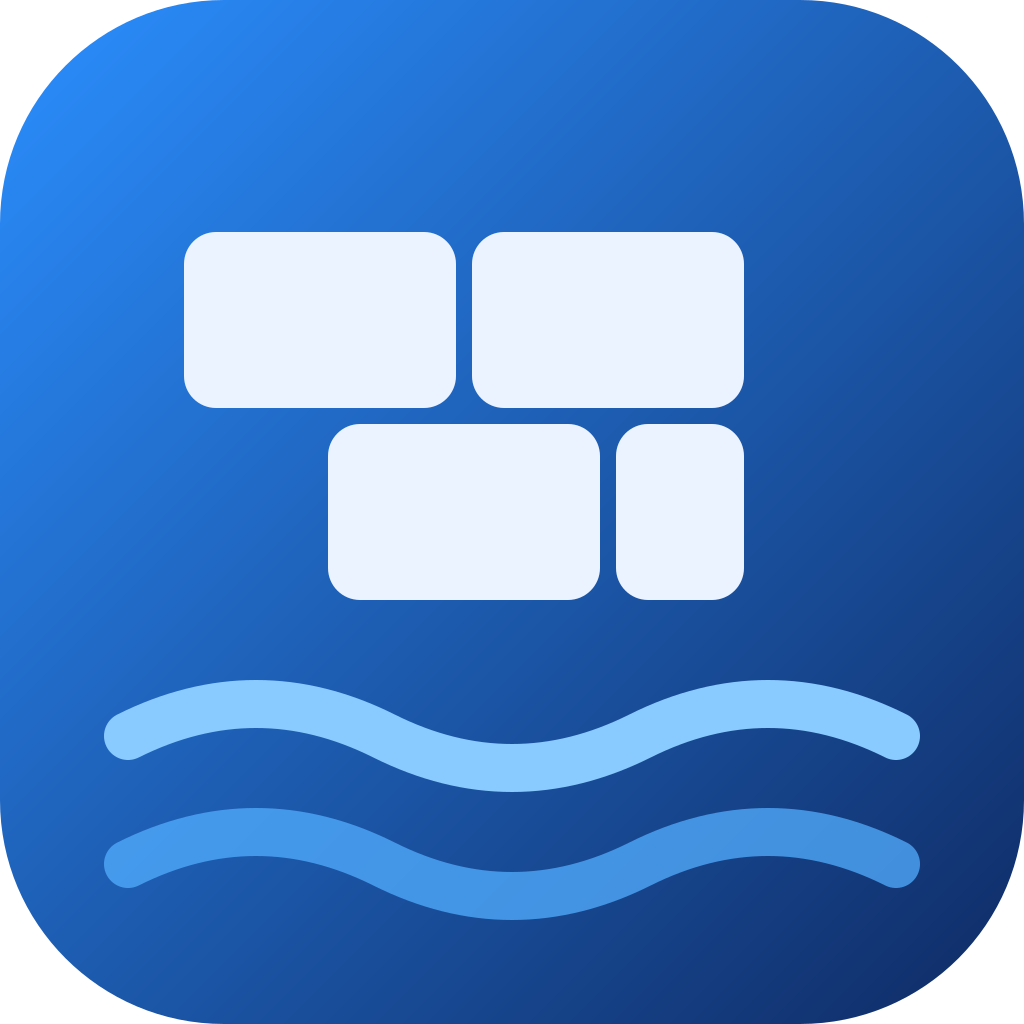
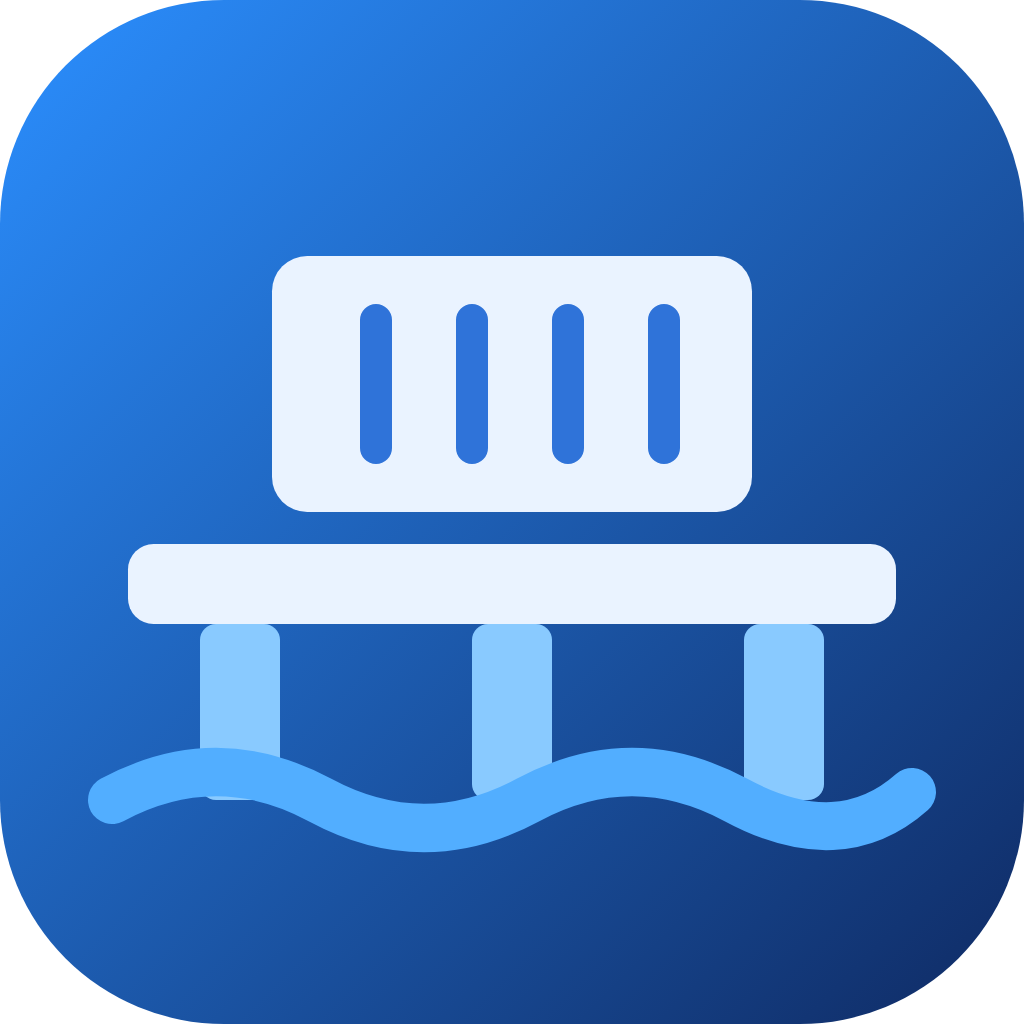
feat: implement custom title bar with theme support for desktop app (#95)

Changed region(s): [[0.0938, 0.2188, 0.9375, 0.9062]]

diff --git a/apps/desktop/src/main.ts b/apps/desktop/src/main.ts
@@ -19,6 +19,14 @@ const API_PORT = Number(process.env.RIHTIM_API_PORT ?? 5170);
 const HOST = "127.0.0.1";
 const WEB_URL = `http://${HOST}:${WEB_PORT}`;
 
+// Web Topbar is h-16 (64px); stop 1px short so its bottom border runs under the controls.
+const TITLE_BAR_HEIGHT = 63;
+const TITLE_BAR_THEMES = {
+  dark: { color: "#0f1115", symbolColor: "#c9ced6", height: TITLE_BAR_HEIGHT },
+  light: { color: "#f5f7fa", symbolColor: "#303845", height: TITLE_BAR_HEIGHT },
+} as const;
+const useCustomTitleBar = process.platform === "win32" || process.platform === "linux";
+
 type ForkedProcess = ReturnType<typeof utilityProcess.fork>;
 
 let apiProc: ForkedProcess | null = null;
@@ -166,6 +174,13 @@ function registerIpcHandlers(): void {
     if (result.canceled || result.filePaths.length === 0) return null;
     return result.filePaths[0];
   });
+
+  ipcMain.on("rihtim:title-bar-theme", (event, theme: unknown) => {
+    if (!useCustomTitleBar || (theme !== "dark" && theme !== "light")) return;
+    const win = BrowserWindow.fromWebContents(event.sender);
+    win?.setTitleBarOverlay(TITLE_BAR_THEMES[theme]);
+    win?.setBackgroundColor(TITLE_BAR_THEMES[theme].color);
+  });
 }
 
 /** Minimal HTML shown when the bundled web server fails to come up. */
@@ -248,7 +263,12 @@ async function createWindow(webReady: boolean): Promise<void> {
     minHeight: 680,
     show: false,
     autoHideMenuBar: true,
-    backgroundColor: "#0b0f14",
+    icon: path.join(__dirname, "icon.png"),
+    backgroundColor: TITLE_BAR_THEMES.dark.color,
+    ...(useCustomTitleBar && {
+      titleBarStyle: "hidden" as const,
+      titleBarOverlay: TITLE_BAR_THEMES.dark,
+    }),
     webPreferences: {
       preload: path.join(__dirname, "preload.js"),
       contextIsolation: true,
@@ -301,6 +321,8 @@ async function createWindow(webReady: boolean): Promise<void> {
 
 async function bootstrap(): Promise<void> {
   initLogger();
+  // Without an explicit AppUserModelId, Windows groups the dev window under electron.exe's icon.
+  if (process.platform === "win32") app.setAppUserModelId("com.rihtim.desktop");
   Menu.setApplicationMenu(null);
   registerIpcHandlers();
 

diff --git a/apps/web/src/components/RihtimLogo.tsx b/apps/web/src/components/RihtimLogo.tsx
@@ -10,21 +10,26 @@ export function RihtimLogo(props: SVGProps<SVGSVGElement>) {
         </linearGradient>
       </defs>
       <rect width="64" height="64" rx="14" fill="url(#rihtim-logo-bg)" />
-      <g fill="#eaf3ff">
-        <rect x="12" y="15" width="16" height="10" rx="1.5" />
-        <rect x="30" y="15" width="16" height="10" rx="1.5" />
-        <rect x="21" y="27" width="16" height="10" rx="1.5" />
-        <rect x="39" y="27" width="7" height="10" rx="1.5" />
+      <rect x="17" y="16" width="30" height="16" rx="2.2" fill="#eaf3ff" />
+      <path
+        d="M23.5 20v8M29.5 20v8M35.5 20v8M41.5 20v8"
+        stroke="#2f73d9"
+        strokeWidth="2"
+        strokeLinecap="round"
+      />
+      <rect x="8" y="34" width="48" height="5" rx="1.6" fill="#eaf3ff" />
+      <g fill="#89caff">
+        <rect x="12.5" y="39" width="5" height="11" rx="1" />
+        <rect x="29.5" y="39" width="5" height="11" rx="1" />
+        <rect x="46.5" y="39" width="5" height="11" rx="1" />
       </g>
-      <g fill="none" strokeLinecap="round">
-        <path d="M8 46 Q16 42 24 46 T40 46 T56 46" stroke="#89caff" strokeWidth="3" />
-        <path
-          d="M8 54 Q16 50 24 54 T40 54 T56 54"
-          stroke="#52aeff"
-          strokeWidth="3"
-          opacity="0.75"
-        />
-      </g>
+      <path
+        d="M7 50 Q13.5 46.5 20 50 T33 50 T46 50 T57 49.5"
+        fill="none"
+        stroke="#52aeff"
+        strokeWidth="3"
+        strokeLinecap="round"
+      />
     </svg>
   );
 }

diff --git a/apps/web/src/app/globals.css b/apps/web/src/app/globals.css
@@ -188,6 +188,21 @@ body {
   box-sizing: border-box;
 }
 
+/* Desktop (Electron) custom title bar: the Topbar doubles as the window drag area, and
+   reserves room for the native window controls via the Window Controls Overlay env vars.
+   In a regular browser the env() fallbacks collapse the extra padding to zero. */
+.app-drag {
+  -webkit-app-region: drag;
+  app-region: drag;
+}
+.app-drag :is(button, a, input, select, textarea, [role="button"]) {
+  -webkit-app-region: no-drag;
+  app-region: no-drag;
+}
+.titlebar-pad-right {
+  padding-right: calc(1.5rem + 100vw - env(titlebar-area-x, 0px) - env(titlebar-area-width, 100vw));
+}
+
 /* Keep Lucide icons crisp and visually balanced across light/dark themes. */
 svg.lucide {
   stroke-width: 1.9;

diff --git a/apps/web/src/components/Sidebar.tsx b/apps/web/src/components/Sidebar.tsx
@@ -46,7 +46,7 @@ export function Sidebar() {
   const { t } = useT();
   return (
     <aside className="w-60 shrink-0 border-r border-slate-800 bg-slate-900 flex flex-col">
-      <div className="h-16 flex items-center gap-2.5 px-5">
+      <div className="app-drag h-16 flex items-center gap-2.5 px-5">
         <RihtimLogo className="w-7 h-7 rounded-md shadow-sm" />
         <div className="leading-tight">
           <div className="text-[15px] font-bold tracking-tight">Rihtim</div>

diff --git a/apps/web/src/components/Topbar.tsx b/apps/web/src/components/Topbar.tsx
@@ -44,7 +44,7 @@ export function Topbar() {
   }, []);
 
   return (
-    <header className="h-16 shrink-0 border-b border-slate-800 bg-slate-950 flex items-center px-6 gap-3">
+    <header className="app-drag titlebar-pad-right h-16 shrink-0 border-b border-slate-800 bg-slate-950 flex items-center pl-6 gap-3">
       <div className="relative" ref={ref}>
         <button
           onClick={() => setOpen((v) => !v)}

diff --git a/apps/web/src/components/ThemeProvider.tsx b/apps/web/src/components/ThemeProvider.tsx
@@ -38,6 +38,10 @@ export function ThemeProvider({ children }: { children: ReactNode }) {
   }, []);
 
   useEffect(() => {
+    window.rihtim?.setTitleBarTheme?.(resolved);
+  }, [resolved]);
+
+  useEffect(() => {
     if (mode !== "system") return;
     const mq = window.matchMedia("(prefers-color-scheme: light)");
     const onChange = () => {

diff --git a/apps/desktop/src/preload.ts b/apps/desktop/src/preload.ts
@@ -11,4 +11,6 @@ contextBridge.exposeInMainWorld("rihtim", {
   },
   selectComposeFile: async (): Promise<string | null> =>
     ipcRenderer.invoke("rihtim:select-compose-file"),
+  setTitleBarTheme: (theme: "dark" | "light"): void =>
+    ipcRenderer.send("rihtim:title-bar-theme", theme),
 });

diff --git a/apps/web/src/types/desktop.d.ts b/apps/web/src/types/desktop.d.ts
@@ -10,6 +10,7 @@ declare global {
         node: string;
       };
       selectComposeFile?: () => Promise<string | null>;
+      setTitleBarTheme?: (theme: "dark" | "light") => void;
     };
   }
 }
